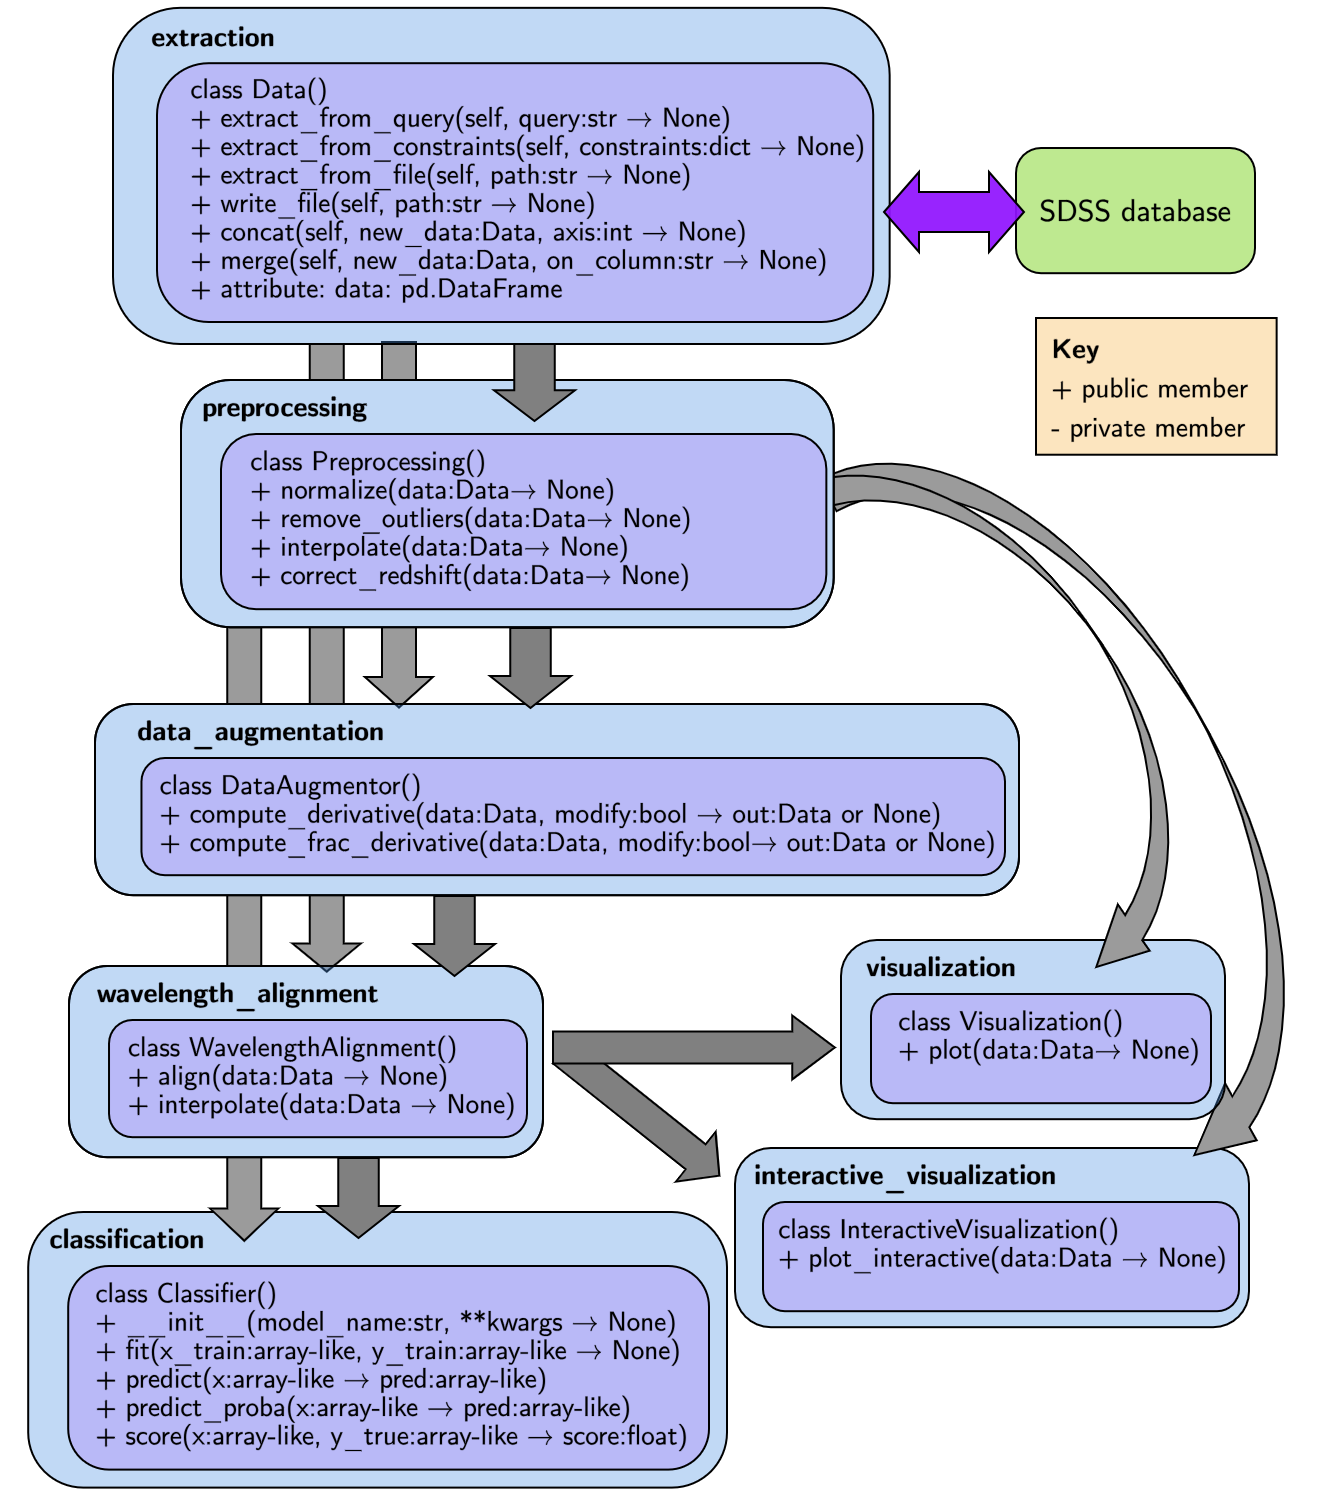
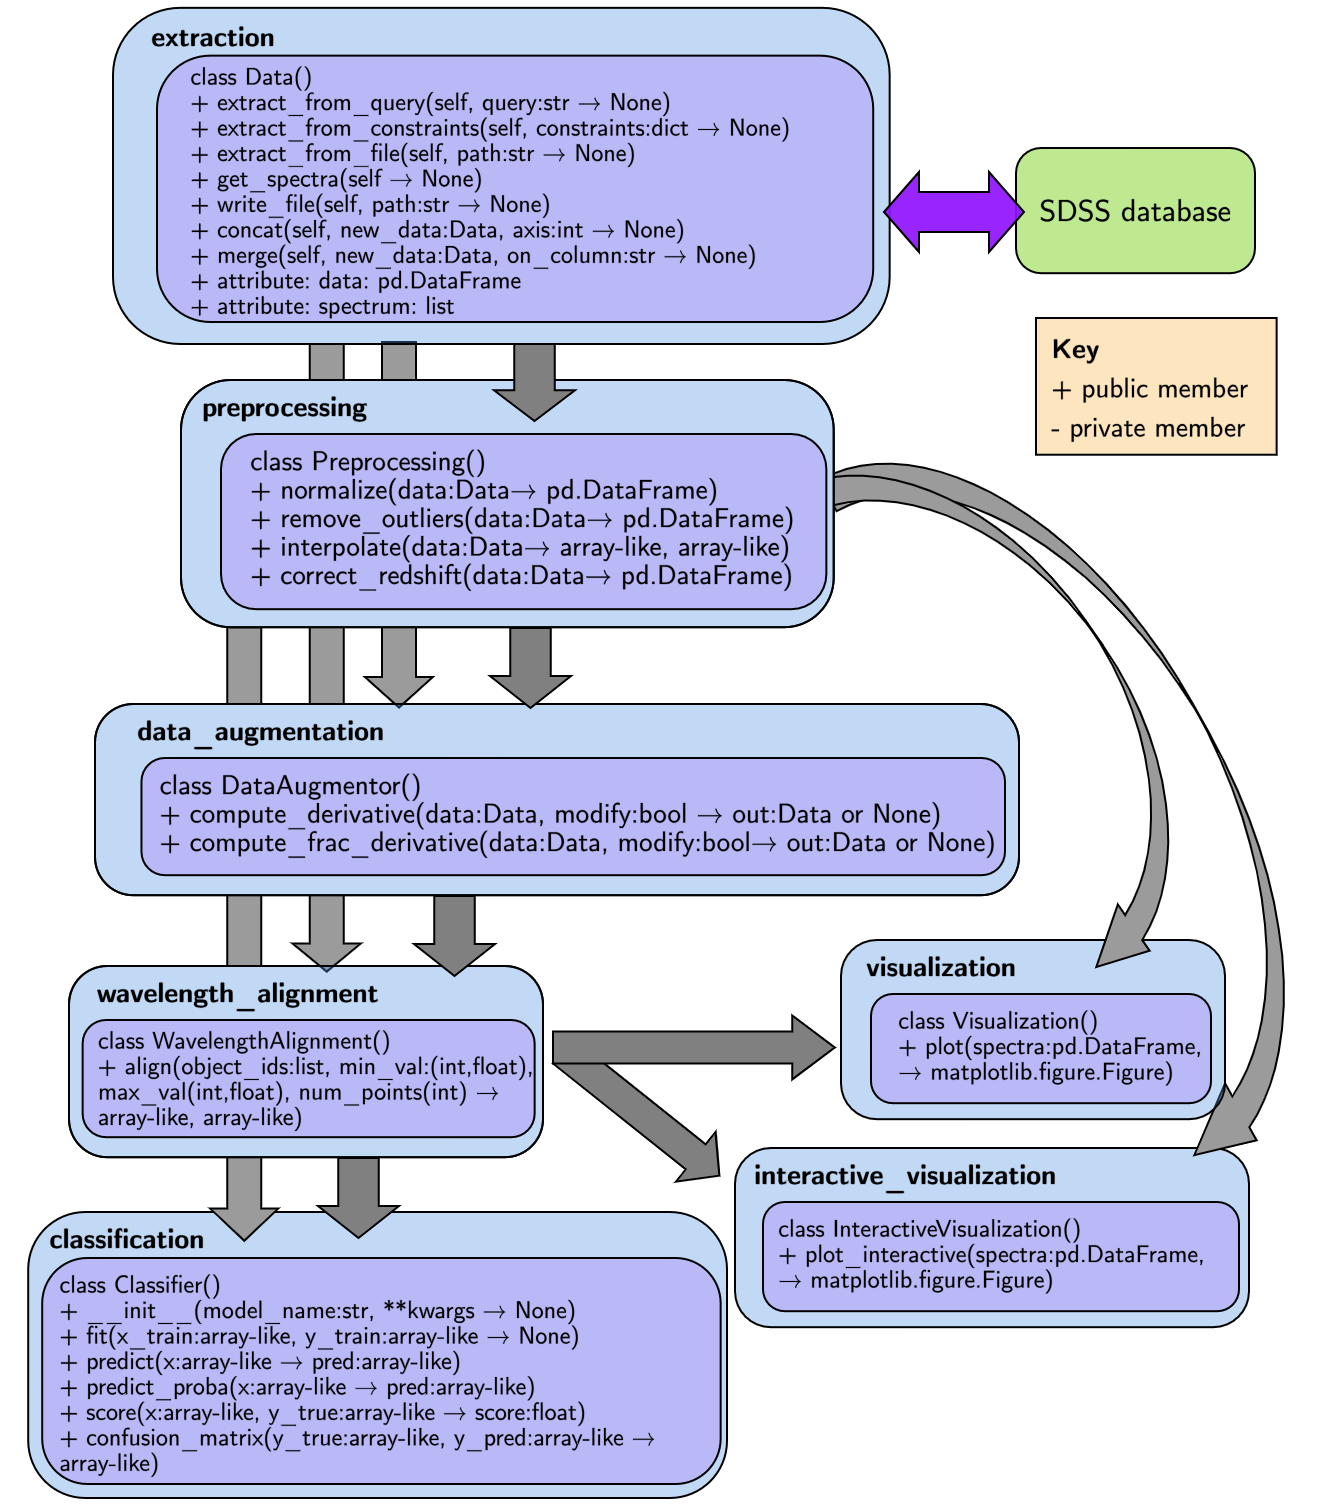
doc: update schematic + edits to m5 API

diff --git a/docs/milestone5.md b/docs/milestone5.md
@@ -7,10 +7,13 @@ each function should be applied to one spectrum, and this alteration makes these
 functions more flexible for the user (i.e. they can remove outliers for one spectrum,
 but not others).
 - **data_extraction module**: We implement a get_spectra method that obtains the spectra 
-for the sky objects represented in the Data class. This functionality simplifies
-spectra extraction for the end user. 
+for the sky objects represented in the Data class. This functionality simplifies spectra extraction for the end user. We also added a spectrum attribute that makes integration easier, since the spectra data can be extracted once, stored with the object instance, and passed directly to several other modules that require it. 
+- **wavelength_alignment module**: We removed the interpolate method, as it was redundant with the preprocessing module. It made more sense for integration purposes to group interpolation together with the other preprocessing functions, and have the wavelength_alignment module call it. We also changed the function signature of the align method to work with spectra data and a user-specified range of target wavelengths, as specified in the SRS clarification.
+- **visualization module**: We changed the function signature of the plot method to take in a spectrum in the form of a pandas DataFrame, which integrates with the new spectrum attrihute in the Data class.
 - **classification module**: We add a confusion_matrix method according to the 
 SRS clarification that returns a confusion matrix for a set of true and predicted
 sky object types.  This provides the end user with an additional method to 
 evaluate the performance of the object classifier, which offers more information
 than an accuracy score alone. 
+
+The data_extraction, preprocessing, and wavelength_alignment modules can be evaluated for integration.

diff --git a/API_draft/README.md b/API_draft/README.md
@@ -14,8 +14,8 @@
     - Function concat: new_data:Data, axis:int → None
     - Function merge: new_data:Data, on_column:str →None
     - Attribute : data : ~pd.Dataframe() or equivalent
-    - Extract metadata functions (we are already using pandas dataframe so no need to do more ?): 
-        - pandas like functions to extract data as regards identifiers, coordinates, chemical abundances, redshifts, or other fields requested by end-user 
+    - Attribute : spectrum : list
+
 ## Module: preprocessing 
 - Class Preprocessing
     - Function (static) normalize : data → pd.DataFrame
@@ -25,17 +25,16 @@
 
 ## Module: wavelength_alignment
 - Class WavelengthAlignment
-    - Function: align : data → None
-    - Function: interpolate: data → None
+    - Function: align : object_ids: list, min_val: (int,float), max_val: (int,float), num_points:int → array-like, array-like
 
 ## Module: visualization
 - Class Visualization
-    - Function (static) plot : data -> plt.figure
+    - Function (static) plot : spectra : pd.DataFrame -> plt.figure
     visualize spectra with an overlay of the inferred continuum
 
 ## Module: interactive_visualization
 - Class InteractiveVisualization
-    - Function (static) plot_interactive : data -> None
+    - Function (static) plot_interactive : spectra : pd.DataFrame -> plt.figure
     enable users to select plot regions and quantify the flux of spectral lines in an interactive mode
 
 ## Module: data_augmentation
